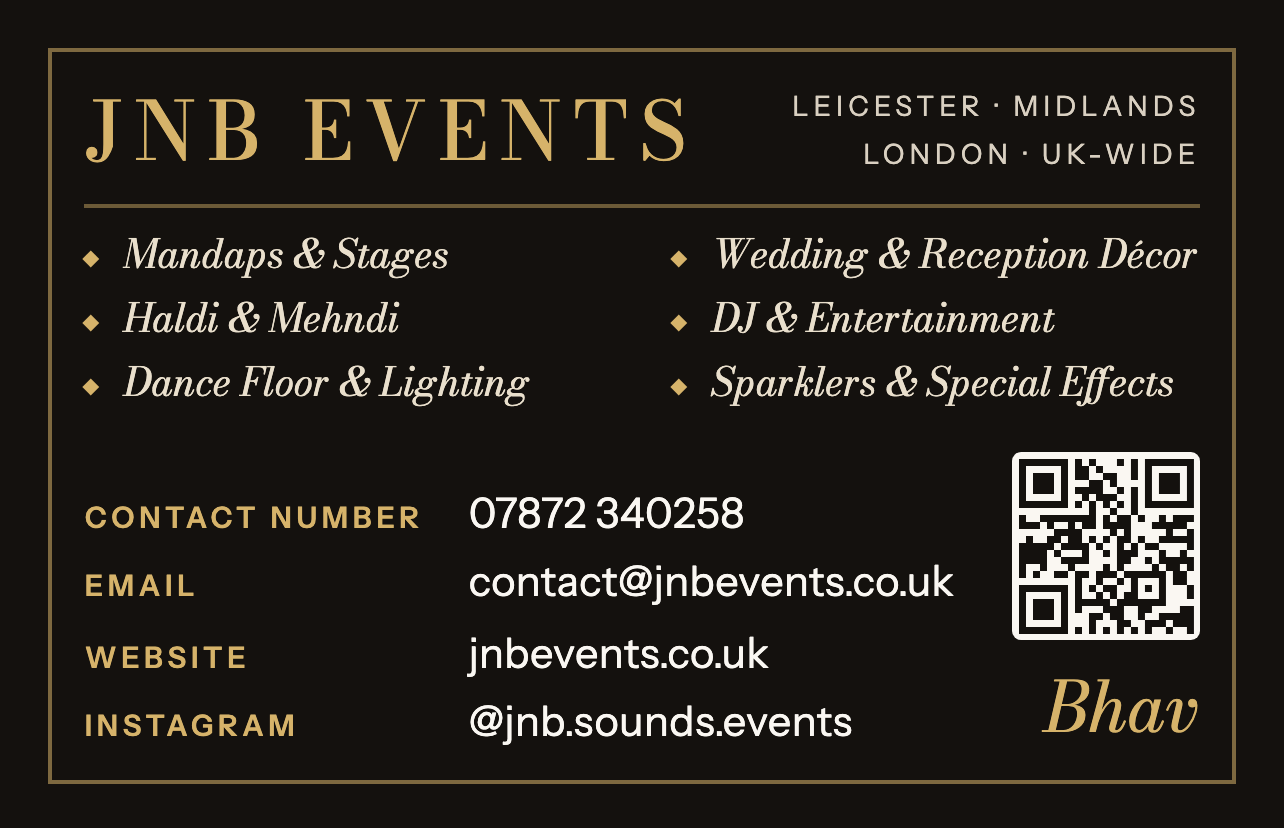
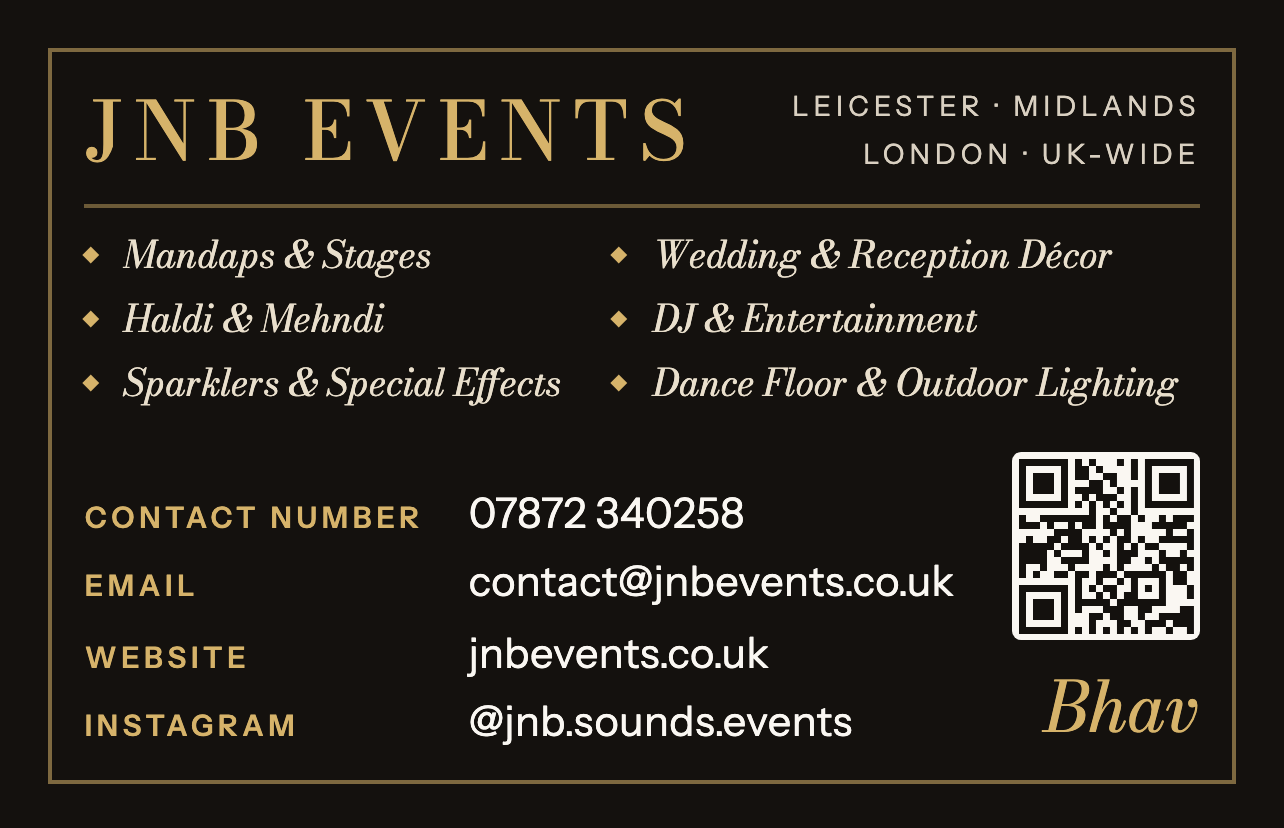
Add Outdoor Lighting to business card services

diff --git a/brand/business-card/card.html b/brand/business-card/card.html
@@ -27,7 +27,7 @@ html,body{background:#fff}
 .qr svg{width:100%;height:100%;display:block}
 .person{position:absolute;right:0;bottom:0;font-family:Bodoni,serif;font-style:italic;font-size:13pt;line-height:1;color:#d6b36a}
 .rule{height:0.25mm;width:100%;background:rgba(214,179,106,.45);margin:1.6mm 0 1.6mm}
-.svc{list-style:none;display:grid;grid-template-columns:1fr 1fr;column-gap:4mm;row-gap:0.9mm;font-family:Bodoni,serif;font-style:italic;font-size:7.4pt;line-height:1.3;color:#e9dfcc}
+.svc{list-style:none;display:grid;grid-template-columns:max-content max-content;column-gap:3.5mm;row-gap:1mm;font-family:Bodoni,serif;font-style:italic;font-size:7pt;line-height:1.3;color:#e9dfcc}
 .svc li{white-space:nowrap;position:relative;padding-left:2.6mm}
 .svc li::before{content:"";position:absolute;left:0;top:0.72em;width:0.9mm;height:0.9mm;background:#d6b36a;transform:translateY(-50%) rotate(45deg)}
 .rows{display:grid;grid-template-columns:auto 1fr;column-gap:3mm;row-gap:1.1mm;align-items:baseline}
@@ -39,7 +39,7 @@ html,body{background:#fff}
   <div>
     <div class="head"><div class="title">JNB Events</div><div class="area">Leicester &middot; Midlands<br>London &middot; UK-wide</div></div>
     <div class="rule"></div>
-    <ul class="svc"><li>Mandaps &amp; Stages</li><li>Wedding &amp; Reception Décor</li><li>Haldi &amp; Mehndi</li><li>DJ &amp; Entertainment</li><li>Dance Floor &amp; Lighting</li><li>Sparklers &amp; Special Effects</li></ul>
+    <ul class="svc"><li>Mandaps &amp; Stages</li><li>Wedding &amp; Reception Décor</li><li>Haldi &amp; Mehndi</li><li>DJ &amp; Entertainment</li><li>Sparklers &amp; Special Effects</li><li>Dance Floor &amp; Outdoor Lighting</li></ul>
   </div>
   <div class="qr" role="img" aria-label="QR code for jnbevents.co.uk"><svg xmlns="http://www.w3.org/2000/svg" viewBox="0 0 270 270"><rect fill="#faf7f2" width="270" height="270"/><path fill="#14110e" d="M10,10h10v10h-10zM20,10h10v10h-10zM30,10h10v10h-10zM40,10h10v10h-10zM50,10h10v10h-10zM60,10h10v10h-10zM70,10h10v10h-10zM90,10h10v10h-10zM110,10h10v10h-10zM150,10h10v10h-10zM170,10h10v10h-10zM190,10h10v10h-10zM200,10h10v10h-10zM210,10h10v10h-10zM220,10h10v10h-10zM230,10h10v10h-10zM240,10h10v10h-10zM250,10h10v10h-10zM10,20h10v10h-10zM70,20h10v10h-10zM90,20h10v10h-10zM100,20h10v10h-10zM120,20h10v10h-10zM170,20h10v10h-10zM190,20h10v10h-10zM250,20h10v10h-10zM10,30h10v10h-10zM30,30h10v10h-10zM40,30h10v10h-10zM50,30h10v10h-10zM70,30h10v10h-10zM90,30h10v10h-10zM100,30h10v10h-10zM130,30h10v10h-10zM140,30h10v10h-10zM170,30h10v10h-10zM190,30h10v10h-10zM210,30h10v10h-10zM220,30h10v10h-10zM230,30h10v10h-10zM250,30h10v10h-10zM10,40h10v10h-10zM30,40h10v10h-10zM40,40h10v10h-10zM50,40h10v10h-10zM70,40h10v10h-10zM110,40h10v10h-10zM120,40h10v10h-10zM140,40h10v10h-10zM190,40h10v10h-10zM210,40h10v10h-10zM220,40h10v10h-10zM230,40h10v10h-10zM250,40h10v10h-10zM10,50h10v10h-10zM30,50h10v10h-10zM40,50h10v10h-10zM50,50h10v10h-10zM70,50h10v10h-10zM90,50h10v10h-10zM100,50h10v10h-10zM110,50h10v10h-10zM120,50h10v10h-10zM150,50h10v10h-10zM170,50h10v10h-10zM190,50h10v10h-10zM210,50h10v10h-10zM220,50h10v10h-10zM230,50h10v10h-10zM250,50h10v10h-10zM10,60h10v10h-10zM70,60h10v10h-10zM100,60h10v10h-10zM120,60h10v10h-10zM130,60h10v10h-10zM140,60h10v10h-10zM170,60h10v10h-10zM190,60h10v10h-10zM250,60h10v10h-10zM10,70h10v10h-10zM20,70h10v10h-10zM30,70h10v10h-10zM40,70h10v10h-10zM50,70h10v10h-10zM60,70h10v10h-10zM70,70h10v10h-10zM90,70h10v10h-10zM110,70h10v10h-10zM130,70h10v10h-10zM150,70h10v10h-10zM170,70h10v10h-10zM190,70h10v10h-10zM200,70h10v10h-10zM210,70h10v10h-10zM220,70h10v10h-10zM230,70h10v10h-10zM240,70h10v10h-10zM250,70h10v10h-10zM110,80h10v10h-10zM140,80h10v10h-10zM170,80h10v10h-10zM10,90h10v10h-10zM40,90h10v10h-10zM50,90h10v10h-10zM60,90h10v10h-10zM70,90h10v10h-10zM80,90h10v10h-10zM90,90h10v10h-10zM100,90h10v10h-10zM110,90h10v10h-10zM130,90h10v10h-10zM150,90h10v10h-10zM160,90h10v10h-10zM180,90h10v10h-10zM210,90h10v10h-10zM230,90h10v10h-10zM240,90h10v10h-10zM250,90h10v10h-10zM10,100h10v10h-10zM20,100h10v10h-10zM30,100h10v10h-10zM50,100h10v10h-10zM80,100h10v10h-10zM100,100h10v10h-10zM110,100h10v10h-10zM130,100h10v10h-10zM140,100h10v10h-10zM150,100h10v10h-10zM160,100h10v10h-10zM200,100h10v10h-10zM210,100h10v10h-10zM220,100h10v10h-10zM230,100h10v10h-10zM240,100h10v10h-10zM60,110h10v10h-10zM70,110h10v10h-10zM80,110h10v10h-10zM90,110h10v10h-10zM140,110h10v10h-10zM160,110h10v10h-10zM220,110h10v10h-10zM250,110h10v10h-10zM20,120h10v10h-10zM50,120h10v10h-10zM60,120h10v10h-10zM80,120h10v10h-10zM90,120h10v10h-10zM110,120h10v10h-10zM130,120h10v10h-10zM150,120h10v10h-10zM160,120h10v10h-10zM180,120h10v10h-10zM210,120h10v10h-10zM220,120h10v10h-10zM230,120h10v10h-10zM240,120h10v10h-10zM250,120h10v10h-10zM10,130h10v10h-10zM20,130h10v10h-10zM30,130h10v10h-10zM40,130h10v10h-10zM50,130h10v10h-10zM70,130h10v10h-10zM80,130h10v10h-10zM90,130h10v10h-10zM100,130h10v10h-10zM120,130h10v10h-10zM150,130h10v10h-10zM170,130h10v10h-10zM190,130h10v10h-10zM200,130h10v10h-10zM250,130h10v10h-10zM10,140h10v10h-10zM20,140h10v10h-10zM30,140h10v10h-10zM40,140h10v10h-10zM60,140h10v10h-10zM100,140h10v10h-10zM130,140h10v10h-10zM150,140h10v10h-10zM160,140h10v10h-10zM170,140h10v10h-10zM210,140h10v10h-10zM240,140h10v10h-10zM10,150h10v10h-10zM20,150h10v10h-10zM30,150h10v10h-10zM40,150h10v10h-10zM70,150h10v10h-10zM80,150h10v10h-10zM90,150h10v10h-10zM100,150h10v10h-10zM150,150h10v10h-10zM160,150h10v10h-10zM190,150h10v10h-10zM210,150h10v10h-10zM220,150h10v10h-10zM230,150h10v10h-10zM240,150h10v10h-10zM250,150h10v10h-10zM10,160h10v10h-10zM40,160h10v10h-10zM80,160h10v10h-10zM130,160h10v10h-10zM150,160h10v10h-10zM200,160h10v10h-10zM220,160h10v10h-10zM230,160h10v10h-10zM250,160h10v10h-10zM10,170h10v10h-10zM30,170h10v10h-10zM60,170h10v10h-10zM70,170h10v10h-10zM90,170h10v10h-10zM100,170h10v10h-10zM120,170h10v10h-10zM130,170h10v10h-10zM140,170h10v10h-10zM160,170h10v10h-10zM170,170h10v10h-10zM180,170h10v10h-10zM190,170h10v10h-10zM200,170h10v10h-10zM210,170h10v10h-10zM230,170h10v10h-10zM240,170h10v10h-10zM90,180h10v10h-10zM120,180h10v10h-10zM150,180h10v10h-10zM170,180h10v10h-10zM210,180h10v10h-10zM230,180h10v10h-10zM240,180h10v10h-10zM10,190h10v10h-10zM20,190h10v10h-10zM30,190h10v10h-10zM40,190h10v10h-10zM50,190h10v10h-10zM60,190h10v10h-10zM70,190h10v10h-10zM90,190h10v10h-10zM110,190h10v10h-10zM130,190h10v10h-10zM140,190h10v10h-10zM170,190h10v10h-10zM190,190h10v10h-10zM210,190h10v10h-10zM250,190h10v10h-10zM10,200h10v10h-10zM70,200h10v10h-10zM90,200h10v10h-10zM120,200h10v10h-10zM140,200h10v10h-10zM160,200h10v10h-10zM170,200h10v10h-10zM210,200h10v10h-10zM250,200h10v10h-10zM10,210h10v10h-10zM30,210h10v10h-10zM40,210h10v10h-10zM50,210h10v10h-10zM70,210h10v10h-10zM90,210h10v10h-10zM100,210h10v10h-10zM110,210h10v10h-10zM120,210h10v10h-10zM130,210h10v10h-10zM150,210h10v10h-10zM160,210h10v10h-10zM170,210h10v10h-10zM180,210h10v10h-10zM190,210h10v10h-10zM200,210h10v10h-10zM210,210h10v10h-10zM10,220h10v10h-10zM30,220h10v10h-10zM40,220h10v10h-10zM50,220h10v10h-10zM70,220h10v10h-10zM90,220h10v10h-10zM130,220h10v10h-10zM140,220h10v10h-10zM150,220h10v10h-10zM180,220h10v10h-10zM190,220h10v10h-10zM240,220h10v10h-10zM250,220h10v10h-10zM10,230h10v10h-10zM30,230h10v10h-10zM40,230h10v10h-10zM50,230h10v10h-10zM70,230h10v10h-10zM110,230h10v10h-10zM120,230h10v10h-10zM140,230h10v10h-10zM150,230h10v10h-10zM180,230h10v10h-10zM210,230h10v10h-10zM220,230h10v10h-10zM230,230h10v10h-10zM240,230h10v10h-10zM250,230h10v10h-10zM10,240h10v10h-10zM70,240h10v10h-10zM110,240h10v10h-10zM150,240h10v10h-10zM160,240h10v10h-10zM190,240h10v10h-10zM200,240h10v10h-10zM210,240h10v10h-10zM230,240h10v10h-10zM240,240h10v10h-10zM250,240h10v10h-10zM10,250h10v10h-10zM20,250h10v10h-10zM30,250h10v10h-10zM40,250h10v10h-10zM50,250h10v10h-10zM60,250h10v10h-10zM70,250h10v10h-10zM90,250h10v10h-10zM110,250h10v10h-10zM130,250h10v10h-10zM150,250h10v10h-10zM170,250h10v10h-10zM190,250h10v10h-10zM220,250h10v10h-10zM250,250h10v10h-10z"/></svg></div>
   <p class="person">Bhav</p>
